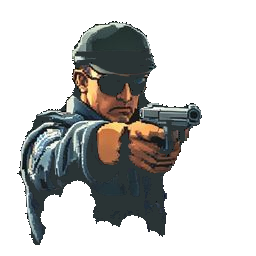
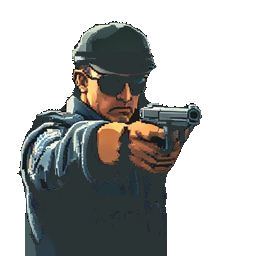
feat(assets): authored bust-hem fill for enemy_shooting_3 (both frames)
Bertrand's gate: fill the bust further. The remaining raggedness was the
original art's torn hem — bays open on the frame bottom that no closing
or hole-fill can reach. scripts/fill-bust-hem.mjs authors jacket-tone
fill: bounded disk-22 closing on the lower bust plus a frame-cut
extension on frame 1 so its silhouette matches the approved frame 2.
Add-only with self-check, deterministic, --check gateable, run to a
joint fixpoint with fill-sprite-holes. f1 +6,283 px, f2 +1,659 px; all
asset gates green; muzzle anchors unchanged. ADR 0018 iteration 5.

Claude-Session: https://claude.ai/code/session_01Xsm4Ui1weH5BeF8ZJhayH8

diff --git a/docs/adr/0018-flash-halo-background-remnant-cleanup.md b/docs/adr/0018-flash-halo-background-remnant-cleanup.md
@@ -217,3 +217,19 @@ pristine base, so no new anatomy was authored.
 - Cross-references: ADR-0013 (shared keyer / enclosed-island flood), ADR-0014
   (sprite-integrity gate + deterministic per-sprite retouch precedent + the solidify pass
   this reconciles with).
+
+## Iteration 5 (2026-07-14) — authored bust-hem fill on enemy_shooting_3
+
+Bertrand's art gate, after the iter-4 restore: "Je veux que tu remplisses encore
+un peu plus le buste de cet ennemi" (enemy_shooting_3). The remaining raggedness
+was the ORIGINAL art's torn hem — concave bays whose mouths open on the frame's
+bottom border, unreachable by any closing radius and invisible to the enclosed-
+hole gates. New `scripts/fill-bust-hem.mjs` AUTHORS fill (the first pass in this
+chain allowed to go beyond the pristine base): per-file bounded closing
+(disk-22, lower-half region) plus, on frame 1, a frame-cut extension (columns
+whose hem mass reaches the bottom band are filled to the frame bottom, matching
+the frame-2 silhouette Bertrand approved: "pour lui c'est ok"). New pixels take
+the median nearby dark-clothing tone. Add-only with a self-check, iterated to a
+fixpoint, `--check` CI-gateable. Run to a JOINT fixpoint with
+`fill-sprite-holes.mjs` (the extension can enclose lateral pockets the solidify
+then fills). Result: f1 +6,283 px, f2 +1,659 px, all four asset gates green.

diff --git a/docs/agent-handoffs.md b/docs/agent-handoffs.md
@@ -1767,3 +1767,15 @@ enemies` PASS (1 pre-existing non-blocking WARN on the civilian prompt).
   solid, blasts full (no lace), wings/star gone. ADR-0018 updated (iter-4 section).
   6 PNGs + 2 scripts changed; NOT committed (per Bertrand's request). Files:
   shooting_2{,\_f2}, shooting_3{,\_f2}, riot_shooting{,\_f2}.
+
+### explosion-alignment-transparency — iter 5 (bust-hem fill, Bertrand live gate)
+
+- Bertrand: "remplis encore un peu plus le buste" (enemy_shooting_3), then
+  approved frame 2 at the closing-only result ("pour lui c'est ok"). The
+  raggedness was the ORIGINAL torn hem (border-open bays — no retouch bite
+  left). New scripts/fill-bust-hem.mjs authors fill: disk-22 closing in the
+  lower half + frame-cut extendDown on f1 (columns whose hem mass reaches the
+  bottom band fill to the frame bottom, matching approved f2); median local
+  clothing tone; add-only + self-check; joint fixpoint with fill-sprite-holes
+  (6 residual px). f1 +6,283 px, f2 +1,659 px. All four gates PASS, anchors
+  unchanged, 213 tests green. (orchestrator, graphist lane)
